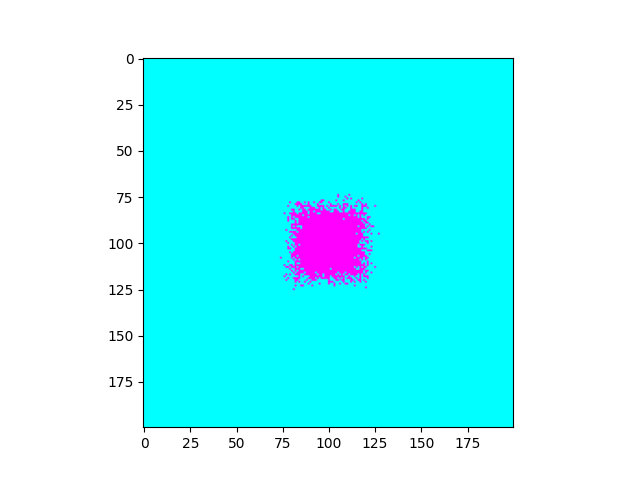
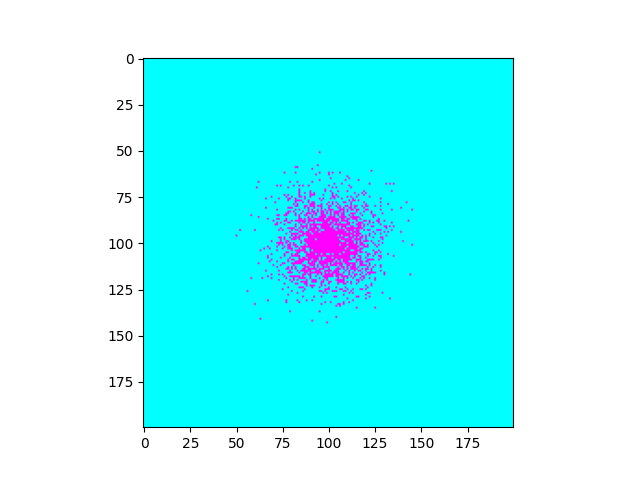
commit

Changed region(s): [[0.4062, 0.3438, 0.625, 0.6562]]

diff --git a/main.py b/main.py
@@ -5,24 +5,26 @@ import numpy as np
 
 
 def check():  # Проверка на растворимость
-    weight = ()
+    p = 0
     flag = True
     if solubility == "Р":
         print("Вещество растворимо")
-        weight = (50, 50, 0)
+        p = 0
     elif solubility == "М":
         print("Вещество мало растворимо")
-        weight = (10, 10, 80)
+        p = 50
     elif solubility == "Н":
         print("Вещество не растворимо")
-        weight = (2, 2, 96)
+        p = 90
     elif solubility == "-":
         print("Вещество не растворяется в водной среде")
         flag = False
     elif solubility == "?":
         print("Нет достоверных сведений о существовании соединения")
         flag = False
-    return weight, flag
+    else:
+        flag = False
+    return p, flag
 
 
 def randomizer(p):  # Рандомайзер
@@ -30,8 +32,8 @@ def randomizer(p):  # Рандомайзер
     return ch[0]
 
 
-def rotation(temp):  # Поворот
-    r = randomizer(check_tuple[0])
+def rotation(temp, w):  # Поворот
+    r = randomizer(w)
     if r is True:  # По часовой
         rotated = list(zip(*temp[::-1]))
     elif r is False:  # Против часовой
@@ -41,40 +43,77 @@ def rotation(temp):  # Поворот
     return rotated
 
 
-def algorithm(k):  # Алгоритм окрестности Марголуса
+def algorithm_margolus(k, w):  # Алгоритм окрестности Марголуса
     for i in range(1, n, 2):
         for j in range(1, m, 2):
             temp = []
             if (not i == n - 1 and not j == m - 1) and k == 1:
+                counted = algorithm_moore(i, j)
+                w = set_weight(P, counted)
                 temp.append([data[i][j], data[i][j + k]])
                 temp.append([data[i + k][j], data[i + k][j + k]])
-                rotated = rotation(temp)
+                rotated = rotation(temp, w)
                 data[i][j], data[i][j + k], data[i + k][j], data[i + k][j + k] = rotated[0][0], rotated[0][1], rotated[1][0], rotated[1][1]
             elif k == -1:
+                counted = algorithm_moore(i, j)
+                w = set_weight(P, counted)
                 temp.append([data[i][j], data[i][j + k]])
                 temp.append([data[i + k][j], data[i + k][j + k]])
-                rotated = rotation(temp)
+                rotated = rotation(temp, w)
                 data[i][j], data[i][j + k], data[i + k][j], data[i + k][j + k] = rotated[-1][-1], rotated[-1][0], rotated[0][-1], rotated[0][0]
+
+
+def algorithm_moore(row, col):  # Алгоритм окрестности Мура
+    count = 0
+    for x, y in ((row - 2, col - 2), (row - 2, col - 1), (row - 2, col), (row - 2, col + 1), (row - 2, col + 2),
+                 (row - 1, col - 2), (row - 1, col - 1), (row - 1, col), (row - 1, col + 1), (row - 1, col + 2),
+                 (row, col - 2), (row, col - 1), (row, col), (row, col + 1), (row, col + 2),
+                 (row + 1, col - 2), (row + 1, col - 1), (row + 1, col), (row + 1, col + 1), (row + 1, col + 2),
+                 (row + 2, col - 2), (row + 2, col - 1), (row + 2, col), (row + 2, col + 1), (row + 2, col + 2)):
+        if not (0 <= x < len(data) and 0 <= y < len(data[x])):
+            continue  # Вне границ
+        if data[x][y] == 1:
+            count += 1
+    return count
 
 
 def space(n, m):  # Создание поля
     data = [[0 for _ in range(n)] for _ in range(m)]
     for i in range(n):
         for j in range(m):
-            if n // 2 - k < i < n // 2 + k and n // 2 - k < j < n // 2 + k:
+            if n // 2 - l < i < n // 2 + l and n // 2 - l < j < n // 2 + l:
                 data[i][j] = 1
     return data
 
 
+def set_weight(p, count):
+    if count != 0:
+        if p == 0:
+            p += count * 2
+            w = [(100 - p) / 2, (100 - p) / 2, p]
+        elif p == 50:
+            p += count
+            w = [(100 - p) / 2, (100 - p) / 2, p]
+        elif p == 90:
+            p += count * 0.1
+            w = [(100 - p) / 2, (100 - p) / 2, p]
+    else:
+        w = [(100 - p) / 2, (100 - p) / 2, p]
+    return w
+
+
 # Main
 n, m = 200, 200
-k = 20
+l = 20
 data = space(n, m)
 chart = pd.read_excel('Solubility Chart.xlsx', index_col=0)
 kation, anion = input("Введите катион вещества: "), input("Введите анион вещества: ")
 solubility = chart.loc[anion, kation]
 check_tuple = check()
-epoch = 100
+P = int(check_tuple[0])
+COUNT = 0
+weight = set_weight(P, COUNT)
+epoch = 1000
 
 plt.ion()
 fig, ax = plt.subplots()
@@ -82,11 +121,11 @@ axim = ax.imshow(np.array(data), vmin=0, vmax=1, cmap='cool')
 
 if check_tuple[1]:
     for _ in range(epoch):
-        algorithm(1)
-        algorithm(-1)
+        algorithm_margolus(1, weight)
+        algorithm_margolus(-1, weight)
         axim.set_data(np.array(data))
         fig.canvas.flush_events()
         # plt.pause(0.1)
 
-    plt.savefig("Solubility.png")
+    plt.savefig("Solubility2.png")
     plt.show()
